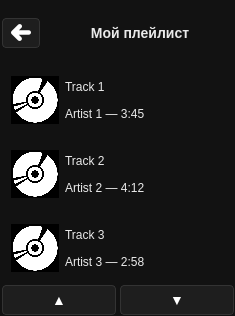
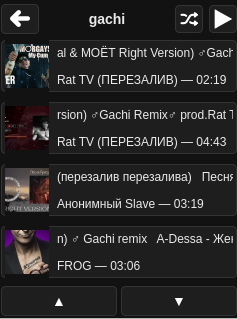
idk

Changed region(s): [[0.0, 0.0, 1.0, 0.8829], [0.2085, 0.0, 1.0, 0.2848], [0.0, 0.9114, 1.0, 1.0]]

diff --git a/res/ui/PlaylistWindow.cpp b/res/ui/PlaylistWindow.cpp
@@ -7,7 +7,6 @@
 #include <QPixmap>
 #include <QIcon>
 #include <QSizePolicy>
-#include <QColor>
 #include <QDir>
 #include <QCoreApplication>
 #include <QFileInfo>
@@ -27,11 +26,13 @@ PlaylistWindow::PlaylistWindow(QWidget* parent)
     connect(ui.btnDown, &QPushButton::clicked,
             this, &PlaylistWindow::scrollDown);
 
-    createItems();
+    visibleRows = (HEIGHT - 4 - 4 - 36 - 4 - 28 - 4) / 52;
+    if (visibleRows < 1) visibleRows = 1;
+    createItems(visibleRows);
 
     // Ограничение по ширине 240: контент 236px (отступы 2+2)
     const int contentW = WIDTH - 4;
-    ui.lblPlaylistTitle->setMaximumWidth(contentW - 36 - 6);
+    ui.lblPlaylistTitle->setMaximumWidth(contentW - 36 - 6 - 28 - 28 - 8);
     ui.lblPlaylistTitle->setSizePolicy(QSizePolicy::Expanding, ui.lblPlaylistTitle->sizePolicy().verticalPolicy());
     for (Item& it : items) {
         it.box->setMaximumWidth(contentW);
@@ -42,6 +43,32 @@ PlaylistWindow::PlaylistWindow(QWidget* parent)
     const int navBtnW = (contentW - 4) / 2;
     ui.btnUp->setFixedSize(navBtnW, 28);
     ui.btnDown->setFixedSize(navBtnW, 28);
+
+    QHBoxLayout* headerLayout = findChild<QHBoxLayout*>(QStringLiteral("headerLayout"));
+    if (headerLayout) {
+        btnShuffle = new QPushButton(this);
+        btnShuffle->setFlat(true);
+        btnShuffle->setFixedSize(28, 28);
+        btnShuffle->setIcon(QIcon(QStringLiteral(":/res/ui/icons/shuffle.svg")));
+        btnShuffle->setIconSize(QSize(20, 20));
+        btnShuffle->setCursor(Qt::PointingHandCursor);
+        btnShuffle->setVisible(false);
+        connect(btnShuffle, &QPushButton::clicked, this, [this]() {
+            shuffleEnabled = !shuffleEnabled;
+            btnShuffle->setIcon(QIcon(shuffleEnabled ? QStringLiteral(":/res/ui/icons/shuffleenabled.svg") : QStringLiteral(":/res/ui/icons/shuffle.svg")));
+            emit requestShuffleToggle();
+        });
+        btnPlay = new QPushButton(this);
+        btnPlay->setFlat(true);
+        btnPlay->setFixedSize(28, 28);
+        btnPlay->setIcon(QIcon(QStringLiteral(":/res/ui/icons/play.svg")));
+        btnPlay->setIconSize(QSize(20, 20));
+        btnPlay->setCursor(Qt::PointingHandCursor);
+        btnPlay->setVisible(false);
+        connect(btnPlay, &QPushButton::clicked, this, [this]() { emit requestPlayPlaylist(); });
+        headerLayout->addWidget(btnShuffle);
+        headerLayout->addWidget(btnPlay);
+    }
 }
 
 PlaylistWindow::~PlaylistWindow()
@@ -49,9 +76,9 @@ PlaylistWindow::~PlaylistWindow()
     // MarqueeController удалится автоматически, т.к. родитель - QLabel
 }
 
-void PlaylistWindow::createItems()
+void PlaylistWindow::createItems(int rowCount)
 {
-    for (int i = 0; i < 3; ++i) {
+    for (int i = 0; i < rowCount; ++i) {
         Item it;
         // Use a flat button as a clickable row container
         auto* btn = new QPushButton;
@@ -126,25 +153,22 @@ void PlaylistWindow::setPlaylist(const QList<TrackInfo>& tracks,
     startIndex = 0;
     showCovers = showCoversMode;
     ui.lblPlaylistTitle->setText(name);
+    if (btnShuffle) btnShuffle->setVisible(showCoversMode);
+    if (btnPlay) btnPlay->setVisible(showCoversMode);
     updateView();
 }
 
 QPixmap PlaylistWindow::loadCover(const QString& coverPath)
 {
     constexpr int coverSize = 44;
-    const QColor letterboxColor(0x1e, 0x1e, 0x1e);
 
-    const auto scaleToCover = [letterboxColor](QPixmap pixmap) -> QPixmap {
+    const auto scaleToCover = [](QPixmap pixmap) -> QPixmap {
         if (pixmap.isNull()) return QPixmap();
-        QPixmap scaled = pixmap.scaled(coverSize, coverSize, Qt::KeepAspectRatio, Qt::SmoothTransformation);
+        QPixmap scaled = pixmap.scaled(coverSize, coverSize, Qt::KeepAspectRatioByExpanding, Qt::SmoothTransformation);
         if (scaled.width() == coverSize && scaled.height() == coverSize) return scaled;
-        QPixmap square(coverSize, coverSize);
-        square.fill(letterboxColor);
-        QPainter painter(&square);
-        painter.setRenderHint(QPainter::SmoothPixmapTransform);
-        painter.drawPixmap((coverSize - scaled.width()) / 2, (coverSize - scaled.height()) / 2, scaled);
-        painter.end();
-        return square;
+        int x = (scaled.width() - coverSize) / 2;
+        int y = (scaled.height() - coverSize) / 2;
+        return scaled.copy(x, y, coverSize, coverSize);
     };
 
     const auto defaultPixmap = [&scaleToCover]() -> QPixmap {
@@ -211,7 +235,6 @@ void PlaylistWindow::updateView()
             items[i].metaMarquee->setText(allTracks[idx].meta);
 
             if (showCovers) {
-                // Для треков: обложка из downloaded_covers или default.svg при отсутствии
                 items[i].cover->setPixmap(loadCover(allTracks[idx].coverPath));
                 items[i].cover->setVisible(true);
             }
@@ -223,16 +246,22 @@ void PlaylistWindow::updateView()
 
 void PlaylistWindow::scrollUp()
 {
+    if (allTracks.isEmpty()) return;
     if (startIndex > 0) {
         startIndex--;
-        updateView();
+    } else {
+        startIndex = qMax(0, allTracks.size() - visibleRows);
     }
+    updateView();
 }
 
 void PlaylistWindow::scrollDown()
 {
-    if (startIndex + 3 < allTracks.size()) {
+    if (allTracks.isEmpty()) return;
+    if (startIndex + visibleRows < allTracks.size()) {
         startIndex++;
-        updateView();
+    } else {
+        startIndex = 0;
     }
+    updateView();
 }

diff --git a/res/ui/PlaylistScene.cpp b/res/ui/PlaylistScene.cpp
@@ -4,10 +4,13 @@
 #include <QCoreApplication>
 #include <QDir>
 #include <QFile>
+#include <QLatin1String>
 #include <QJsonArray>
 #include <QJsonDocument>
 #include <QJsonObject>
 #include <QDebug>
+#include <algorithm>
+#include <random>
 
 PlaylistScene::PlaylistScene(qreal rot, QObject* parent)
     : QObject(parent)
@@ -21,6 +24,10 @@ PlaylistScene::PlaylistScene(qreal rot, QObject* parent)
             this, &PlaylistScene::handleBackRequested);
     connect(wnd, &PlaylistWindow::itemClicked,
             this, &PlaylistScene::handleItemClicked);
+    connect(wnd, &PlaylistWindow::requestShuffleToggle,
+            this, &PlaylistScene::handleShuffleToggle);
+    connect(wnd, &PlaylistWindow::requestPlayPlaylist,
+            this, &PlaylistScene::handlePlayPlaylist);
 
     loadPlaylistsFromDisk();
     showPlaylistsList();
@@ -41,7 +48,18 @@ void PlaylistScene::handleItemClicked(const int index)
     if (currentMode == Mode::PlaylistsList) {
         openPlaylistByIndex(index);
     } else {
-        // In track view we do nothing on click for now
+        if (index >= 0 && index < currentTracks.size()) {
+            const TrackInfo& t = currentTracks.at(index);
+            QString path = t.path;
+            if (path.isEmpty()) return;
+            if (t.type == QLatin1String("mp3") && !path.contains(QLatin1Char(':')) && !path.startsWith(QLatin1Char('/'))) {
+                QDir dir(QCoreApplication::applicationDirPath());
+                dir.cdUp();
+                dir.cdUp();
+                path = dir.absoluteFilePath(QStringLiteral("web-interface/data/mp3/") + path);
+            }
+            emit requestPlayTrack(path, t.type);
+        }
     }
 }
 
@@ -52,6 +70,19 @@ void PlaylistScene::handleBackRequested()
     } else {
         emit requestBack();
     }
+}
+
+void PlaylistScene::handleShuffleToggle()
+{
+    if (currentMode != Mode::TracksView || currentTracks.isEmpty()) return;
+    std::shuffle(currentTracks.begin(), currentTracks.end(), std::mt19937(std::random_device{}()));
+    wnd->setPlaylist(currentTracks, currentPlaylistName, true);
+}
+
+void PlaylistScene::handlePlayPlaylist()
+{
+    if (currentMode != Mode::TracksView || currentTracks.isEmpty()) return;
+    handleItemClicked(0);
 }
 
 void PlaylistScene::loadPlaylistsFromDisk()
@@ -109,6 +140,8 @@ void PlaylistScene::showPlaylistsList()
         rows.append(info);
     }
 
+    currentTracks.clear();
+    currentPlaylistName.clear();
     wnd->setPlaylist(rows, QStringLiteral("Плейлисты"), false);
 }
 
@@ -163,9 +196,13 @@ void PlaylistScene::openPlaylistByIndex(const int index)
             info.meta = duration;
         }
         info.coverPath = t.value(QStringLiteral("cover")).toString();
+        info.path = t.value(QStringLiteral("path")).toString();
+        info.type = t.value(QStringLiteral("type")).toString(QStringLiteral("mp3"));
         tracks.append(info);
     }
 
     currentMode = Mode::TracksView;
+    currentTracks = tracks;
+    currentPlaylistName = pl.name;
     wnd->setPlaylist(tracks, pl.name, true);
 }

diff --git a/res/ui/PlaylistWindow.h b/res/ui/PlaylistWindow.h
@@ -11,6 +11,8 @@ struct TrackInfo {
     QString title;
     QString meta;
     QString coverPath;
+    QString path;
+    QString type;  // "mp3", "youtube", "spotify"
 };
 
 class PlaylistWindow : public QWidget
@@ -26,8 +28,9 @@ public:
 
 signals:
     void requestBack();
-    // Emitted when a visible row is clicked: index in the current list
     void itemClicked(int index);
+    void requestShuffleToggle();
+    void requestPlayPlaylist();
 
 private:
     Ui::PlaylistWindow ui;
@@ -45,9 +48,13 @@ private:
     QList<Item> items;
     QList<TrackInfo> allTracks;
     int startIndex = 0;
+    int visibleRows = 4;
     bool showCovers = true;
+    QPushButton* btnShuffle = nullptr;
+    QPushButton* btnPlay = nullptr;
+    bool shuffleEnabled = false;
 
-    void createItems();
+    void createItems(int rowCount);
     void updateView();
     QPixmap loadCover(const QString& coverPath);
 

diff --git a/res/ui/PlayerScene.cpp b/res/ui/PlayerScene.cpp
@@ -1,5 +1,7 @@
 #include "PlayerScene.h"
+#include "../audio/mediafactory.h"
 #include <QCoreApplication>
+#include <QLatin1String>
 #include <QMainWindow>
 
 #include "PlaylistScene.h"
@@ -40,6 +42,13 @@ PlayerScene::PlayerScene(const qreal rot, QObject* parent)
         view.setScene(&scene);
     });
 
+    connect(playlistScene, &PlaylistScene::requestPlayTrack, this, [this](const QString& path, const QString& typeStr) {
+        MediaType mt = MediaType::Mp3;
+        if (typeStr == QLatin1String("youtube")) mt = MediaType::Youtube;
+        else if (typeStr == QLatin1String("spotify")) mt = MediaType::Spotify;
+        audio.play(mt, path);
+        view.setScene(&scene);
+    });
 }
 
 

diff --git a/res/ui/PlaylistScene.h b/res/ui/PlaylistScene.h
@@ -21,10 +21,13 @@ public:
 
 signals:
     void requestBack();
+    void requestPlayTrack(const QString& path, const QString& type);
 
 private slots:
     void handleItemClicked(int index);
     void handleBackRequested();
+    void handleShuffleToggle();
+    void handlePlayPlaylist();
 
 private:
     QGraphicsScene sc;
@@ -38,6 +41,8 @@ private:
 
     Mode currentMode = Mode::PlaylistsList;
     QList<PlaylistInfo> playlists;
+    QList<TrackInfo> currentTracks;
+    QString currentPlaylistName;
 
     void loadPlaylistsFromDisk();
     void showPlaylistsList();

diff --git a/README.md b/README.md
@@ -219,4 +219,5 @@ pip3 install yt-dlp
 ## Текущее состояние:
 
 ![img_3.png](img_3.png)
+![img_2.png](img_2.png)
 ![img.png](img.png)
